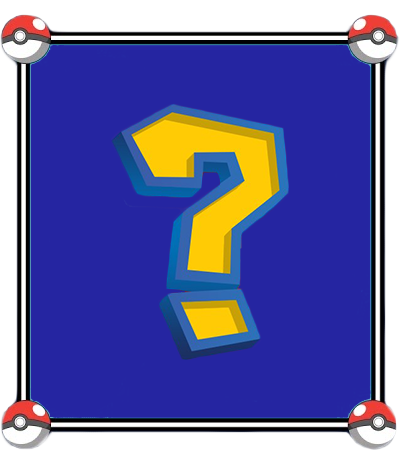
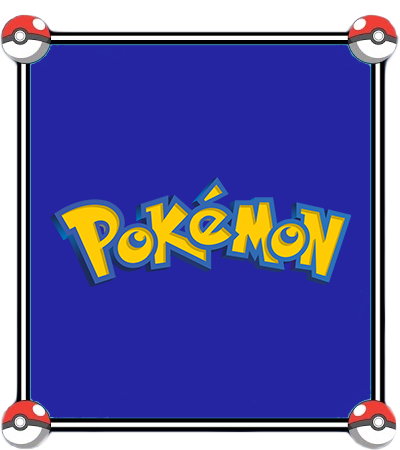
設定牌的大小及屬性

Changed region(s): [[0.12, 0.2178, 0.9, 0.8089]]

diff --git a/css/style.css b/css/style.css
@@ -68,6 +68,54 @@ body {
   transform: translate(-50%,-50%);
   display: none;
 }
+.card{
+  height: 200px;
+  width: auto;
+  margin: 10px;
+  position: relative;
+
+  transform-style: preserve-3d;
+  transition: transform .5s;
+}
+.left-card-front{
+  width: 100%;
+  height: 100%;
+  background: url(/images/1_front.png)no-repeat;
+  background-position: center;
+  background-size: contain;
+  position: absolute;
+
+  transform: rotate(180deg);
+}
+.left-card-back{
+  width: 100%;
+  height: 100%;
+  background: url(/images/card_shadow_back.png)no-repeat;
+  background-position: center;
+  background-size: contain;
+  position: absolute;
+}
+.right-card-front{
+  width: 100%;
+  height: 100%;
+  background: url(/images/1_front.png)no-repeat;
+  background-position: center;
+  background-size: contain;
+  position: absolute;
+
+  transform: rotate(180deg);
+}
+.right-card-back{
+  width: 100%;
+  height: 100%;
+  background: url(/images/card_face_back.png)no-repeat;
+  background-position: center;
+  background-size: contain;
+  position: absolute;
+}
+.card-open{
+  transform: rotateY(180deg);
+}
 /* footer--------------------- */
 #footer{  
   width: 100%;
